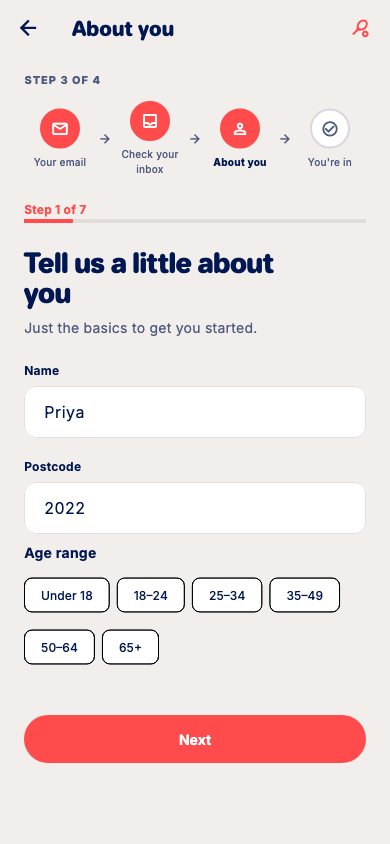
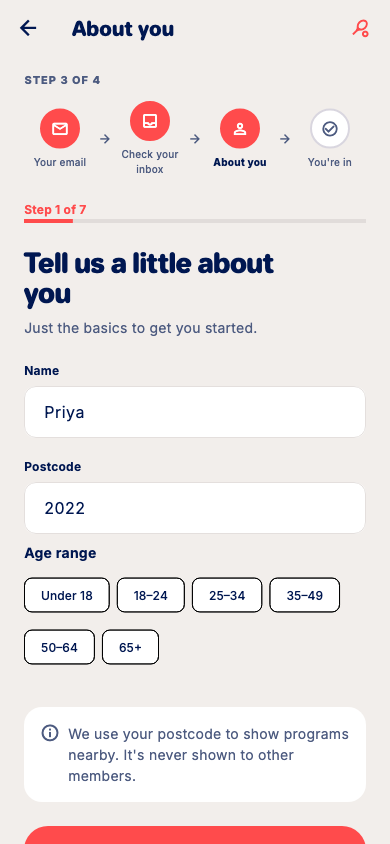
Add widget tests for the postcode note and Why-we-ask sheets
Covers: step 1's postcode note text/icon, step 2 showing one button per
optional question, opening a sheet and closing it with Got it, each step 3
button opening its own explanation, and no overflow at 360x640 with 1.5x
text scale. Regenerated the S05/S06/S07 goldens to match the new content.

Changed region(s): [[0.0615, 0.8318, 0.9538, 0.9242], [0.0615, 0.955, 0.9538, 1.0]]

diff --git a/test/about_you_test.dart b/test/about_you_test.dart
@@ -1,0 +1,133 @@
+import 'package:flutter/material.dart';
+import 'package:flutter/services.dart';
+import 'package:flutter_test/flutter_test.dart';
+import 'package:rally4ever/participant/app.dart';
+import 'package:rally4ever/participant/forms.dart';
+import 'package:timezone/data/latest.dart' as tz;
+
+import 'support/fake_participant.dart';
+
+void main() {
+  setUpAll(() async {
+    tz.initializeTimeZones();
+    await (FontLoader(
+      'MaterialIcons',
+    )..addFont(rootBundle.load('fonts/MaterialIcons-Regular.otf'))).load();
+    await (FontLoader(
+      'Inter',
+    )..addFont(rootBundle.load('assets/fonts/Inter.ttf'))).load();
+    await (FontLoader('Jellee')..addFont(
+          rootBundle.load('assets/fonts/Jellee_1223/TTF/Jellee-Bold.ttf'),
+        ))
+        .load();
+  });
+
+  Future<void> show(WidgetTester tester, String page) async {
+    tester.view.physicalSize = const Size(390, 1400);
+    tester.view.devicePixelRatio = 1;
+    addTearDown(tester.view.resetPhysicalSize);
+    addTearDown(tester.view.resetDevicePixelRatio);
+    await tester.pumpWidget(
+      ParticipantApp(
+        repository: FakeParticipantRepository(),
+        initialPage: page,
+        cameraEnabled: false,
+        mapTilesEnabled: false,
+      ),
+    );
+    await tester.pumpAndSettle();
+  }
+
+  testWidgets('step 1 shows the postcode privacy note', (tester) async {
+    await show(tester, 'profile1');
+    expect(
+      find.text(
+        "We use your postcode to show programs nearby. It's never shown "
+        'to other members.',
+      ),
+      findsOneWidget,
+    );
+    expect(find.byIcon(Icons.info_outline), findsOneWidget);
+  });
+
+  testWidgets('step 2 shows a "Why we ask" button for each optional question', (
+    tester,
+  ) async {
+    await show(tester, 'profile2');
+    expect(find.text('Why we ask'), findsNWidgets(2));
+    expect(find.byIcon(Icons.help_outline), findsNWidgets(2));
+  });
+
+  testWidgets(
+    'tapping "Why we ask" opens a sheet with its title and Got it, which closes it',
+    (tester) async {
+      await show(tester, 'profile2');
+      await tester.tap(find.text('Why we ask').first);
+      await tester.pumpAndSettle();
+
+      expect(find.text('Why we ask'), findsWidgets);
+      expect(
+        find.textContaining(
+          "It helps us see who we're reaching and make sure sessions",
+        ),
+        findsOneWidget,
+      );
+      expect(find.text('Got it'), findsOneWidget);
+
+      await tester.tap(find.text('Got it'));
+      await tester.pumpAndSettle();
+      expect(
+        find.textContaining(
+          "It helps us see who we're reaching and make sure sessions",
+        ),
+        findsNothing,
+      );
+      expect(find.text('Got it'), findsNothing);
+    },
+  );
+
+  testWidgets(
+    'step 3 "Why we ask" buttons each open their own explanation',
+    (tester) async {
+      await show(tester, 'profile3');
+      expect(find.text('Why we ask'), findsNWidgets(3));
+
+      await tester.tap(find.text('Why we ask').at(2));
+      await tester.pumpAndSettle();
+      expect(
+        find.textContaining('which posters, partners and events'),
+        findsOneWidget,
+      );
+      await tester.tap(find.text('Got it'));
+      await tester.pumpAndSettle();
+    },
+  );
+
+  testWidgets(
+    'no overflow at 360x640 with 1.5x text scale on step 2',
+    (tester) async {
+      tester.view.physicalSize = const Size(360, 640);
+      tester.view.devicePixelRatio = 1;
+      tester.platformDispatcher.textScaleFactorTestValue = 1.5;
+      addTearDown(tester.view.resetPhysicalSize);
+      addTearDown(tester.view.resetDevicePixelRatio);
+      addTearDown(tester.platformDispatcher.clearTextScaleFactorTestValue);
+      await tester.pumpWidget(
+        ParticipantApp(
+          repository: FakeParticipantRepository(),
+          initialPage: 'profile2',
+          cameraEnabled: false,
+          mapTilesEnabled: false,
+        ),
+      );
+      await tester.pumpAndSettle();
+      expect(tester.takeException(), isNull);
+      expect(find.byType(WhyWeAsk), findsNWidgets(2));
+
+      await tester.tap(find.text('Why we ask').first);
+      await tester.pumpAndSettle();
+      expect(tester.takeException(), isNull);
+      expect(find.text('Got it'), findsOneWidget);
+    },
+  );
+}
